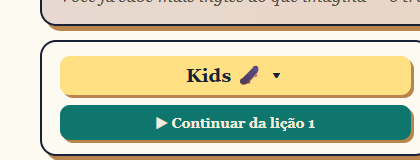
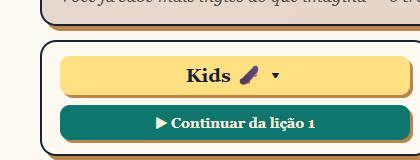
index: fixed column metrics, not fractional tracks - the document is 1200px wide, so 390x3+15x2 and 593x2+14 fill it exactly; teacher dropdowns 380x3+10x2 inside a card; no phone breakpoint

diff --git a/style.css b/style.css
@@ -9,6 +9,13 @@
 
 @import url('https://fonts.googleapis.com/css2?family=Playfair+Display:wght@700;900&family=Caveat:wght@700&family=Public+Sans:wght@400;600;700&display=swap');
 :root{--cream:#f4eddd;--paper:#fdfaf2;--ink:#182136;--tan:#b9854c;--rose:#d9c1ba;--ptw:#96601f;--blue:#1d4ed8;--dkblue:#1e3a8a;--bluebg:rgba(29,78,216,.16)}
+/* THE COLUMN METRIC (owner instruction 2026-11-09). The page is a FIXED-WIDTH document — .page-container is
+   position:absolute at 1400px and .content-area is always 1200px — so its grids are fixed pixels, never
+   fractional tracks. 390×3 + 15×2 = 1200 and 593×2 + 14 = 1200, both exact: no sub-pixel widths, no growth,
+   nothing that can reflow when data arrives or the window moves.
+   --colT/--gutT are the teacher dropdown row's own metric: it sits inside a .card (padding 18px + 2px border a
+   side), so its available width is 1160px, not 1200 — 380×3 + 10×2 = 1160 exactly, three per row. */
+:root{--col3:390px;--gut3:15px;--col2:593px;--colT:380px;--gutT:10px}
 /* TYPOGRAPHY (owner instruction 2026-11-09): the site is SERIF, everywhere. --serif is the default every element
    inherits, and it is the only type stack a page/teacher view may use. Georgia leads it because it was drawn for
    screens, it ships on Windows and macOS, it carries the Portuguese accents and the IPA the dictionary uses
@@ -263,12 +270,15 @@ body.editing .content-area{outline:2px dashed var(--blue);outline-offset:4px}
 
 
 /* teacher admin area */
-.tadmin-books{display:flex;gap:10px;margin-top:2px;flex-wrap:wrap}
-/* one dropdown per track: they wrap instead of squeezing when there are many, and a long label wraps inside its
-   own button rather than running over the next one */
-.tadmin-books .bookdrop{flex:1 1 200px}
-.tadmin-books button{flex:1 1 0;margin:0;white-space:normal}
-.tadmin-cols{display:grid;grid-template-columns:repeat(2,minmax(0,1fr));gap:14px;margin:14px 0}
+.tadmin-books{display:flex;gap:var(--gutT);margin-top:2px;flex-wrap:wrap}
+/* one dropdown per track, at a FIXED width: the row wraps on a known count and no button grows into whatever
+   space is left over (owner instruction 2026-11-09: fixed size, no fractional growth anywhere on this panel).
+   380px is not the 390px of a landing column because this row lives inside a .card — 1160px of interior, so
+   380×3 + 10×2 = 1160 exactly, three per row. A label too long for it is measured and shrunk by fitBookText(),
+   which covers every .bookbtn — the teacher's dropdowns and the student's cards alike. */
+.tadmin-books .bookdrop{flex:0 0 var(--colT)}
+.tadmin-books button{margin:0;white-space:nowrap}
+.tadmin-cols{display:grid;grid-template-columns:repeat(2,var(--col2));gap:14px;margin:14px 0}
 .tadmin-col{margin:0}
 .tadmin-col h4{margin:0 0 6px}
 .tadmin-item{padding:8px 0;border-bottom:2px dashed var(--tan)}
@@ -354,12 +364,13 @@ body.landing .landing-footer{letter-spacing:.12em;padding:22px 16px 32px}
 .landing-hello{margin:14px 0;border-color:var(--ink);background:linear-gradient(100deg,rgba(217,193,186,.60),rgba(185,133,76,.30) 55%,rgba(29,78,216,.16))}
 .hello-en{font-weight:600;font-size:18px;line-height:1.35}
 .hello-pt{margin-top:4px;font-style:italic;color:#5c5347}
-/* EXACTLY THREE PER ROW (owner instruction 2026-11-09). This was `repeat(auto-fit,minmax(240px,1fr))`, so the
-   column count moved with the viewport width AND with how many tracks had arrived — the page appeared to reflow
-   as tracks.json landed. A fixed count cannot do either. One deliberate exception: a phone-width screen gets a
-   single column, because three ~110px columns are unusable (a breakpoint, not autosizing). */
-.tracks{display:grid;grid-template-columns:repeat(3,minmax(0,1fr));gap:14px;align-items:start;margin:14px 0}
-@media (max-width:640px){.tracks{grid-template-columns:minmax(0,1fr)}}
+/* THREE FIXED COLUMNS (owner instruction 2026-11-09, second pass). This began as `auto-fit`, then became
+   `repeat(3,minmax(0,1fr))` — which was still wrong: 1200px split into three FRACTIONAL tracks is 390.67px
+   each, so every card measured a slightly different width and the column count was a decision the browser
+   re-made on every resize. The document is fixed-width, so the columns are fixed pixels: 390 × 3 + 15 × 2 =
+   1200 exactly. No fractional tracks, no phone breakpoint — a fixed-width document does not reflow, it
+   scrolls — and the grid is decided once, by this rule, not by how many tracks have arrived. */
+.tracks{display:grid;grid-template-columns:repeat(3,var(--col3));gap:var(--gut3);align-items:start;margin:14px 0}
 .track-card{margin:0}
 /* h3 is the block label everywhere in lesson content; the landing page keeps the browser default */
 #app h3{font-family:inherit;font-weight:700;font-size:1.17em;color:inherit;margin:1em 0;padding-left:0;border-left:0;letter-spacing:normal}

diff --git a/index.html b/index.html
@@ -2,7 +2,7 @@
 <!-- build: 2026-10-20T00:00:00Z -->
 <meta name="viewport" content="width=device-width,initial-scale=1">
 <title>English Opens Doors</title>
-<link rel="stylesheet" href="style.css?v=a45f305088">
+<link rel="stylesheet" href="style.css?v=8727a54344">
 <script src="https://accounts.google.com/gsi/client" async defer></script>
 </head><body class="landing">
 <header class="brand"><img src="logo.png" onerror="this.outerHTML='<div class=logoFallback>🐕</div>'"><h1>ENGLISH <span>OPENS DOORS</span></h1><p class="script">Let's go <span lang="pt">· Vamos lá</span></p></header>

diff --git a/FUNCTION.md b/FUNCTION.md
@@ -80,7 +80,7 @@ Shared by Highlight, Note and Recording; the per-feature within/overlap/contain 
 ## Teacher/student [CONTROL]
 - The only teacher-only control is the student selector in the control bar ("demo (you)" + students of the current track); changing it switches which student's layer is loaded and shown.
 - **Lesson-page control bar**: `⌂ Index` is a **button** and sits **first**; beside it is a **lesson selector for the current book** — the same `.bookitem` component the Index page renders (number plain text, name the only link, `.cur` marking the lesson being read), its trigger painted with the book's own 200 swatch and labelled from `tracks.json`, and its list fetched on **first open** so a page pays nothing for a list it may never open. Then the teacher's student selector (teacher view only), ← Last / Next →, 🖨 Print, 🧹 Clear page, and in the teacher view ✏ Edit / ↩ Revert. **🧹 Clear page sits to the RIGHT of Print**, and it is appended as a node after Print rather than written into the bar's `innerHTML` string — that append is the only thing that puts it in that place, and losing it once dropped the button from every lesson page in silence. **Every control in the bar is ONE height — 32px, measured, the natural height of ← Last / Next →** (8px padding + a 14px line + 8px): a fixed height with centred content means a label carrying an emoji (🖨 🧹 ✏ ↩), whose line box is taller than a text-only one, can no longer make the row step up and down, and the teacher's `<select>` is held to the same height. jsdom computes no layout, so this is asserted by a real-Chrome scenario (`node qa/live.mjs --only=bar`) that measures every control's `getBoundingClientRect().height` and its `top`, and that also fails if Clear page is missing or if it sits left of Print. **The bar states no identity and no raw track name**: the logged-in email lives in the Logout button's tooltip on the Index page and is printed nowhere in either bar.
-- **Student landing page (index.html)**: **the student index is one column per track**, in the order `tracks.json` gives (kids · business · adult today — a new track appears with no edit to the page). Each column LEADS with **its lesson SELECTOR** — one full-width button labelled "`Name Icon ▾`", painted with the track's own 200 swatch and carrying the book's name **4pt larger** than a button's 14px (`calc(14px + 4pt)`), which **never wraps**: `fitBookText()` measures the label and shrinks it in half-point steps to an 11px floor (ellipsis only as a last resort) — CSS cannot size text to a box, so the fitter is the mechanism and `white-space:nowrap` is the contract. The columns are **exactly three per row** (`repeat(3,minmax(0,1fr))`, never `auto-fit`), so the grid cannot reflow when `tracks.json` lands or the window moves — and the **track list itself is cached** (`eod_tracks`), painted before the first card is drawn, so a reload shows every column at once instead of three followed by the rest — then **"▶ Continuar da lição N"**. The column has **no heading of its own**: the trigger already says the book's name, so a separate one would say it twice (owner instruction 2026-11-09). The list is no longer standing on the page. The selector is the SAME component the teacher panel renders (`bookButton` in index.html), so the teacher's list and the student's list are identical by construction, and its trigger is painted with the track's own 200 swatch. Each item reads `NN` then the lesson name on **one line**: the number is plain text and always **2pt larger** than the name (`font-size:calc(1em + 2pt)`), **only the name is the link** to the page, a long name truncates with an ellipsis, and the full text stays as a `title` tooltip; no item says "lição", only the number and the name. Progress is a colour (a finished lesson turns teal) rather than an emoji, and **both the colour and the "▶ Continuar da lição N" number come from the server with the access list** (`status.done` = the exact finished lessons, `status.progress` = the last one per book), so the button resumes where the student really stopped on any device. **"▶ Continuar da lição N" sits BELOW the selector**. A book the student does not hold is **greyed out and inert** with "sem acesso", and `go()` refuses it — a locked column is advertising, never a way in. `status.tracks` decides which columns are live (multi-track access, above). The page opens with a one-line colourful intro (English line + its Portuguese line below); signing out stays in the control bar.
+- **Student landing page (index.html)**: **the student index is one column per track**, in the order `tracks.json` gives (kids · business · adult today — a new track appears with no edit to the page). Each column LEADS with **its lesson SELECTOR** — one full-width button labelled "`Name Icon ▾`", painted with the track's own 200 swatch and carrying the book's name **4pt larger** than a button's 14px (`calc(14px + 4pt)`), which **never wraps**: `fitBookText()` measures the label and shrinks it in half-point steps to an 11px floor (ellipsis only as a last resort) — CSS cannot size text to a box, so the fitter is the mechanism and `white-space:nowrap` is the contract. The columns are **exactly three per row at a FIXED 390px** (`repeat(3,var(--col3))` with a 15px gutter: 390×3 + 15×2 = 1200 exactly), so the grid cannot reflow when `tracks.json` lands or the window moves — the page is a fixed-width document (`.page-container` is absolute at 1400px, `.content-area` is always 1200px) and its grids are fixed pixels, **never fractional tracks**: `repeat(3,minmax(0,1fr))` split 1200px into 390.67 each, so every card measured a different sub-pixel width, which is what the owner saw as resizing. The teacher panel obeys the same discipline (its dropdowns fixed at 380px — it sits inside a `.card`, so 1160px of interior, three per row; its two columns fixed at 593px), and the **track list itself is cached** (`eod_tracks`), painted before the first card is drawn, so a reload shows every column at once instead of three followed by the rest — then **"▶ Continuar da lição N"**. The column has **no heading of its own**: the trigger already says the book's name, so a separate one would say it twice (owner instruction 2026-11-09). The list is no longer standing on the page. The selector is the SAME component the teacher panel renders (`bookButton` in index.html), so the teacher's list and the student's list are identical by construction, and its trigger is painted with the track's own 200 swatch. Each item reads `NN` then the lesson name on **one line**: the number is plain text and always **2pt larger** than the name (`font-size:calc(1em + 2pt)`), **only the name is the link** to the page, a long name truncates with an ellipsis, and the full text stays as a `title` tooltip; no item says "lição", only the number and the name. Progress is a colour (a finished lesson turns teal) rather than an emoji, and **both the colour and the "▶ Continuar da lição N" number come from the server with the access list** (`status.done` = the exact finished lessons, `status.progress` = the last one per book), so the button resumes where the student really stopped on any device. **"▶ Continuar da lição N" sits BELOW the selector**. A book the student does not hold is **greyed out and inert** with "sem acesso", and `go()` refuses it — a locked column is advertising, never a way in. `status.tracks` decides which columns are live (multi-track access, above). The page opens with a one-line colourful intro (English line + its Portuguese line below); signing out stays in the control bar.
 - **Granting books**: a student may hold any number of books at once. The approved list gives each student two lines — the identity (`name` + `email`, both truncating inside a box the link cannot enter) with a right-justified **remove student** link — then **one switch per track**: ON = the student holds that book, OFF = they do not, and flipping the switch IS the grant (`approve` appends that book, `remove` takes exactly that book away). ON fills the switch's groove with the track's own 200 swatch (`#FFE082` kids · `#90CAF9` business · `#FFAB91` adult, read from that folder's `track.json`) and carries the track's icon at full colour on a white thumb; OFF is a soft grey groove (`rgba(24,33,54,.16)` with an inset shadow) and a white thumb whose icon is desaturated, so the row reads as a colour-coded picture of what the student holds and neither state fights the icon for contrast. Only the switch whose change is **still with the server** is marked `.pending` (dimmed, `cursor:progress`, not interactive) — the books nobody touched stay live, because they were never in question. The former per-book `⏭` jump, per-book `×` removal and `＋ dar acesso` select are gone. Turning off a student's LAST book leaves them no access, so they drop off the approved list on the next load. **A burst of flips is ONE write per student**: each flip updates that student's DESIRED set in memory, an 80ms window collapses the flurry, and one `accessSet` call carries the whole set (the switches revert to the last confirmed state if it fails). The backend pays the script lock and the tokeninfo round trip once instead of once per flip, which is why several quick changes no longer come back as errors, and a set that is in flight can never be lost because the call carries the target rather than a delta.
 - **Opening the page**: a signed-in return **paints before it makes any request** — the role and the last `queue`/`status` answer are cached per email, so the first paint is synchronous and the network only ever corrects it (the measured 2–3s is the Apps Script round trip, so it must not gate the first paint). The wait when nothing is cached is a centred spiral, not a "Carregando" line; the API call that decides the session is issued in parallel with the two static fetches instead of behind them; an expired Google credential is refused locally before any paint (`profile.exp`); and a rejected session returns to the login card in place, without a reload. Painting early costs nothing: every teacher action is authorised server-side (`isTeacher_`), so a demoted teacher sees a stale shell for one round trip and can do nothing with it. The stylesheet's version stamp is **baked into the HTML** by `build-lessons.mjs` (a hash of `style.css`), never applied at runtime: a `<link href>` present in the document is render-blocking, so a hard refresh paints once and already styled, whereas swapping `href` from JS aborted the first fetch and painted the page unstyled (logo flashing left, then redrawing centred — owner report 2026-11-09). A stamp that does not match `style.css` is a harness failure, so it cannot go stale in silence.
 - **Every confirmation is the site's OWN dialog** (owner instruction 2026-11-09): `window.confirm` is gone from the site — 🧹 Clear page, ↩ Revert, remove student, and the QA notes tool's restore all call `eodConfirm()`. A browser popup cannot be styled, blocks the whole tab, cannot speak this page's language or voice, and can be silenced for good by "prevent this page from creating additional dialogs", after which a destructive action runs — or is skipped — with no prompt at all. **Every FUTURE confirmation calls `eodConfirm`, never `window.confirm`.** Signature `eodConfirm({title, body, confirm, cancel, danger}) → Promise<boolean>`: `true` = the confirm button, `false` = cancel, Escape, a backdrop click, or a second dialog replacing this one. `danger:true` paints the confirm button in the site's error red. `title` and `body` are set with `textContent`, so a student's name or an email is data and can never parse as markup; Enter accepts, Escape refuses, focus is trapped between the two buttons and returned to its origin on close, and the backdrop carries `z-index:1000` (above `#toast` 99, game drag cards 80, game effects 10). The implementation lives in ONE source, duplicated **byte-identically** in `engine1.js` (every lesson page) and `index.html` (the one page that loads no engine) between `== SHARED SOURCE: eodConfirm ==` markers, and `qa/landing.mjs` fails if the two copies differ by so much as a character, if any site file calls `confirm(` again, or if the dialog's stacking rule is lost. The lone exception is `qa/preview-blocks.html`, a bare fixture that loads no engine: there `qa/notes.js` falls back to the browser dialog for its restore action, and nowhere else does that fallback exist.
